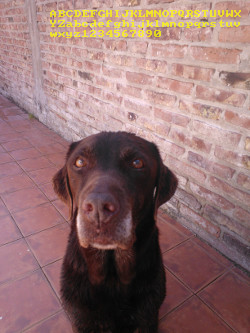
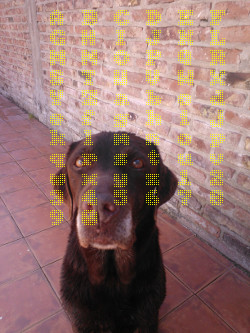
provi, bug zoom interleaved

Changed region(s): [[0.196, 0.03, 0.98, 0.6907], [0.336, 0.2102, 0.392, 0.6907]]

diff --git a/font8x8render.py b/font8x8render.py
@@ -33,7 +33,7 @@ def newcol(oldpix, newpix, alpha):
           oldpix[2]*(1-alpha)+newpix[2]*alpha]
 
 
-def annotate_img(img, text, x=8, y=8, dir="horiz", color=[128,128,128], alpha=1.0):
+def annotate_img(img, text, x=8, y=8, dir="horiz", color=[128,128,128], alpha=1.0, zoom=2):
 
   kern=8
 
@@ -45,21 +45,25 @@ def annotate_img(img, text, x=8, y=8, dir="horiz", color=[128,128,128], alpha=1.
     bitmap = select_set(ord(c))
 
     # Draw a character
-    for posy in range(0,8):
-      for posx in range(0,8):
-        pixel = bitmap[posy] & 1 << posx
+    for py in range(0,8):
+      for px in range(0,8):
+        pixel = bitmap[py] & 1 << px
         if pixel != 0:
-          # notice inverted coordinates used in arrays
-          img[y+dy+posy,x+dx+posx]=newcol(img[y+dy+posy,x+dx+posx], color, alpha)
+          for zy in range(0, zoom):
+            for zx in range(0, zoom):
+              # notice inverted coordinates used in arrays
+              img[y+dy*zoom+py*zoom+zy*zoom, x+dx*zoom+px*zoom+zx*zoom] = newcol(
+                   img[y+dy*zoom+py*zoom+zy*zoom, x+dx*zoom+px*zoom+zx*zoom],
+                   color, alpha)
 
     if dir=="vert":
       dy+=kern
-      if dy>=img.shape[0]-y-8:
+      if dy*zoom>=img.shape[0]-y-8*zoom:
         dx+=kern+2
         dy=0
     else:
-      dx+=kern
-      if dx>=img.shape[1]-x-8:
+      dx+=kern*zoom
+      if dx*zoom>=img.shape[1]-x-8*zoom:
         dy+=kern+2
         dx=0
     
